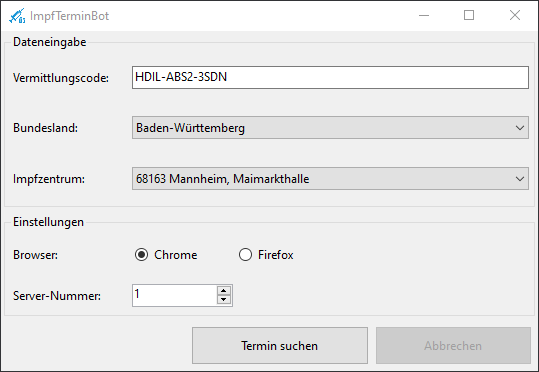
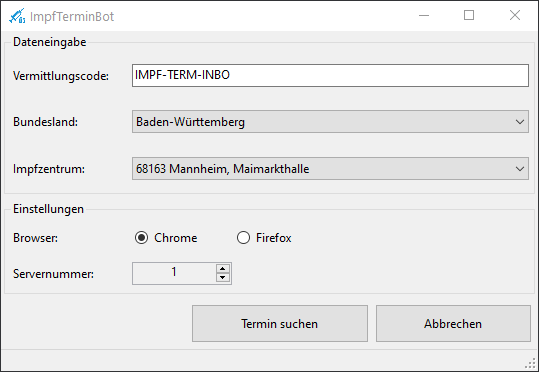
Dokumentation aktualisiert; Abbrechen-Button wird jetzt korrekt deaktiviert

diff --git a/ImpfTerminBot.GUI/View.Designer.cs b/ImpfTerminBot.GUI/View.Designer.cs
@@ -42,7 +42,7 @@ namespace ImpfTerminBot.GUI
             this.tableLayoutPanel1 = new System.Windows.Forms.TableLayoutPanel();
             this.tableLayoutPanel3 = new System.Windows.Forms.TableLayoutPanel();
             this.btnStart = new System.Windows.Forms.Button();
-            this.btnStop = new System.Windows.Forms.Button();
+            this.btnCancel = new System.Windows.Forms.Button();
             this.groupBox2 = new System.Windows.Forms.GroupBox();
             this.tableLayoutPanel4 = new System.Windows.Forms.TableLayoutPanel();
             this.label5 = new System.Windows.Forms.Label();
@@ -182,7 +182,7 @@ namespace ImpfTerminBot.GUI
             this.tableLayoutPanel3.ColumnStyles.Add(new System.Windows.Forms.ColumnStyle(System.Windows.Forms.SizeType.Percent, 50F));
             this.tableLayoutPanel3.ColumnStyles.Add(new System.Windows.Forms.ColumnStyle(System.Windows.Forms.SizeType.Absolute, 163F));
             this.tableLayoutPanel3.Controls.Add(this.btnStart, 1, 0);
-            this.tableLayoutPanel3.Controls.Add(this.btnStop, 2, 0);
+            this.tableLayoutPanel3.Controls.Add(this.btnCancel, 2, 0);
             this.tableLayoutPanel3.Dock = System.Windows.Forms.DockStyle.Fill;
             this.tableLayoutPanel3.Location = new System.Drawing.Point(3, 270);
             this.tableLayoutPanel3.Name = "tableLayoutPanel3";
@@ -204,14 +204,14 @@ namespace ImpfTerminBot.GUI
             // 
             // btnStop
             // 
-            this.btnStop.Dock = System.Windows.Forms.DockStyle.Fill;
-            this.btnStop.Location = new System.Drawing.Point(371, 3);
-            this.btnStop.Name = "btnStop";
-            this.btnStop.Size = new System.Drawing.Size(157, 39);
-            this.btnStop.TabIndex = 2;
-            this.btnStop.Text = "Abbrechen";
-            this.btnStop.UseVisualStyleBackColor = true;
-            this.btnStop.Click += new System.EventHandler(this.btnStop_Click);
+            this.btnCancel.Dock = System.Windows.Forms.DockStyle.Fill;
+            this.btnCancel.Location = new System.Drawing.Point(371, 3);
+            this.btnCancel.Name = "btnStop";
+            this.btnCancel.Size = new System.Drawing.Size(157, 39);
+            this.btnCancel.TabIndex = 2;
+            this.btnCancel.Text = "Abbrechen";
+            this.btnCancel.UseVisualStyleBackColor = true;
+            this.btnCancel.Click += new System.EventHandler(this.btnStop_Click);
             // 
             // groupBox2
             // 
@@ -384,7 +384,7 @@ namespace ImpfTerminBot.GUI
         private System.Windows.Forms.ToolTip toolTip1;
         private System.Windows.Forms.TableLayoutPanel tableLayoutPanel3;
         private System.Windows.Forms.Button btnStart;
-        private System.Windows.Forms.Button btnStop;
+        private System.Windows.Forms.Button btnCancel;
         private System.Windows.Forms.GroupBox groupBox2;
         private System.Windows.Forms.TableLayoutPanel tableLayoutPanel4;
         private System.Windows.Forms.Label label4;

diff --git a/ImpfTerminBot.GUI/View.cs b/ImpfTerminBot.GUI/View.cs
@@ -28,7 +28,7 @@ namespace ImpfTerminBot.GUI
             m_AppointmentFinder.SearchFailed += OnFail;
 
             btnStart.Enabled = false;
-            btnStop.Enabled = false;
+            btnCancel.Enabled = false;
         }
 
         private void OnSuccess(object sender, EventArgs e)
@@ -48,7 +48,7 @@ namespace ImpfTerminBot.GUI
         private void ResetControls()
         {
             EnableControls(true);
-            btnStop.Enabled = false;
+            btnCancel.Enabled = false;
             btnStart.Text = "Termin suchen";
             stlStatus.Text = "";
         }
@@ -176,7 +176,6 @@ namespace ImpfTerminBot.GUI
                 cbCenter.Enabled = true;
                 cbCountry.Enabled = true;
                 btnStart.Enabled = true;
-                btnStop.Enabled = true;
                 m_Code = mtbCode.Text;
             }
             else
@@ -184,7 +183,6 @@ namespace ImpfTerminBot.GUI
                 cbCenter.Enabled = false;
                 cbCountry.Enabled = false;
                 btnStart.Enabled = false;
-                btnStop.Enabled = false;
                 m_Code = "";
             }
         }
@@ -193,7 +191,7 @@ namespace ImpfTerminBot.GUI
         {
             try
             {
-                btnStop.Enabled = true;
+                btnCancel.Enabled = true;
                 EnableControls(false);
 
                 if(m_AppointmentFinder.IsSearching() && !m_AppointmentFinder.IsStopped())

diff --git a/README.md b/README.md
@@ -24,9 +24,19 @@ Anschließend müssen die benötigten Daten eingetragen werden:
 
 Nach der Dateneingabe muss "Termin suchen" geklickt werden. Der ImpfTerminBot startet dann automatisiert die Terminsuche.
 
-### Abbrechen der Terminsuche
+### Terminsuche Stoppen /Fortsetzen und Abbrechen
 
-Beim Klick auf "Abbrechen" wird die aktuelle Suche gestoppt und der Browser wird geschlossen.
+Wenn die Suche läuft kann diese mit einem Klick auf "Suche stoppen" pausiert werden. Der Benutzer kann jetzt die Steuerung übernehmen.
+
+![SucheStoppen](doc/SucheStoppen.png)
+
+Mit "Suche fortsetzen" kann die Suche dann fortgesetzt werden.
+
+![SucheFortsetzen](doc/SucheFortsetzen.png)
+
+
+
+Beim Klick auf "Abbrechen" wird die aktuelle Suche abgebrochen und der Browser wird geschlossen.
 
 ### Termin gefunden
 Der ImpfTerminBot meldet sich akustisch sobald ein Termin gefunden wurde. Die Daten müssen dann innerhalb von 10 Minuten eingegeben werden, sonst verfällt die Terminreservierung. 
